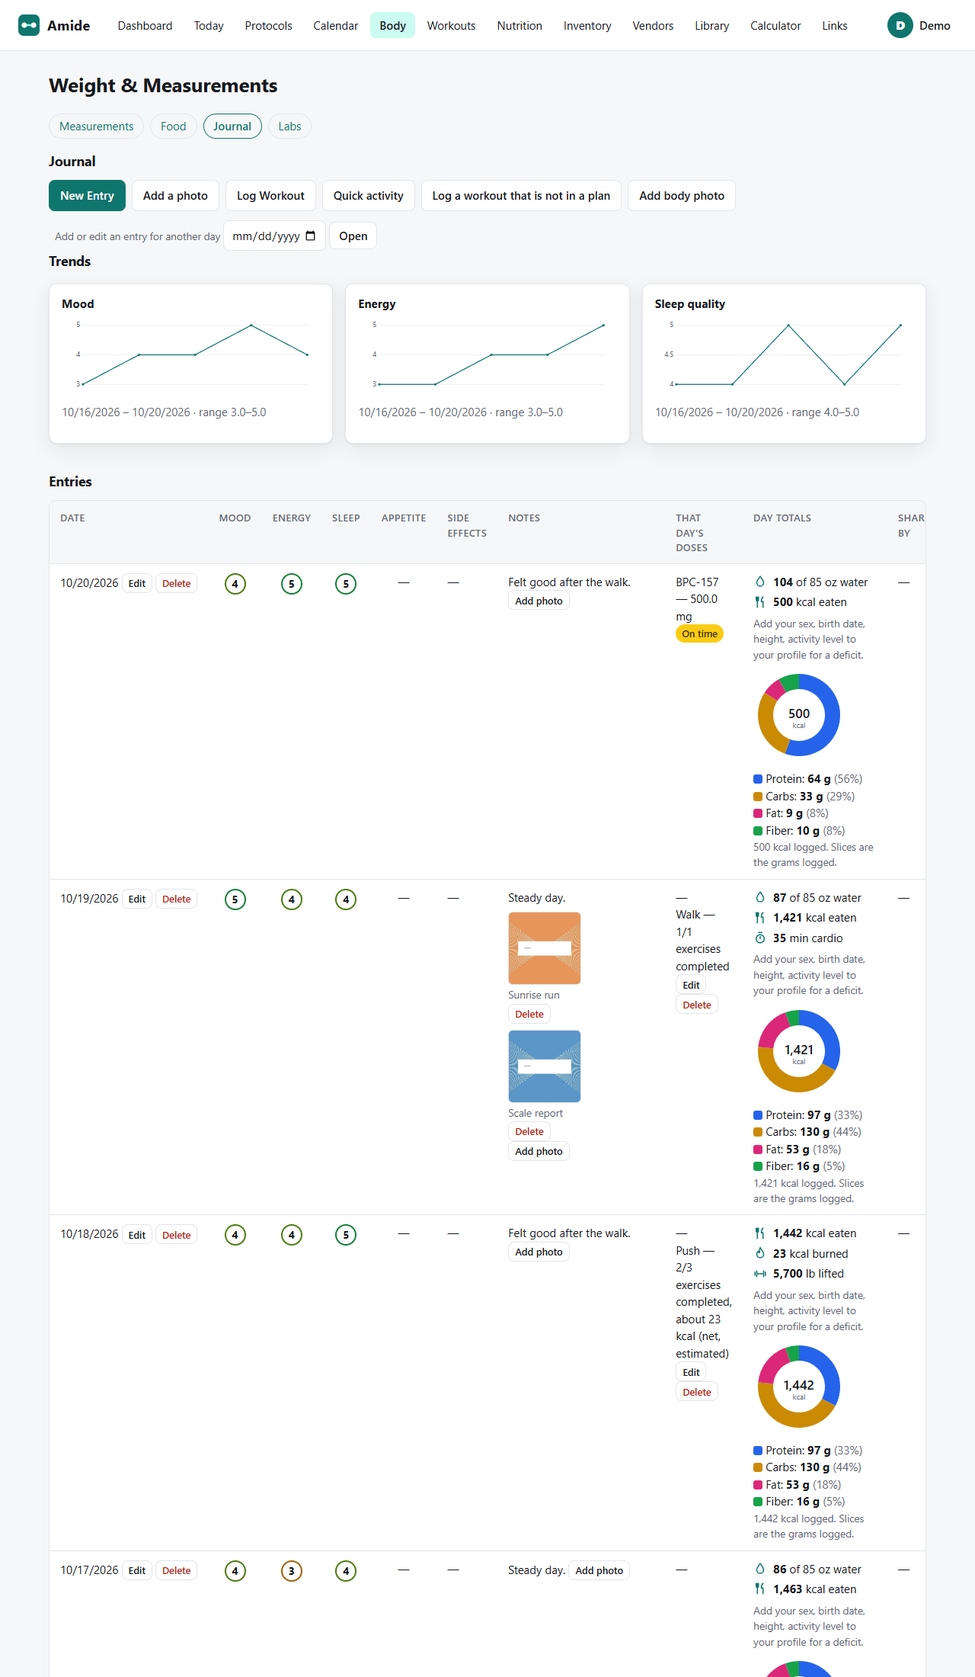
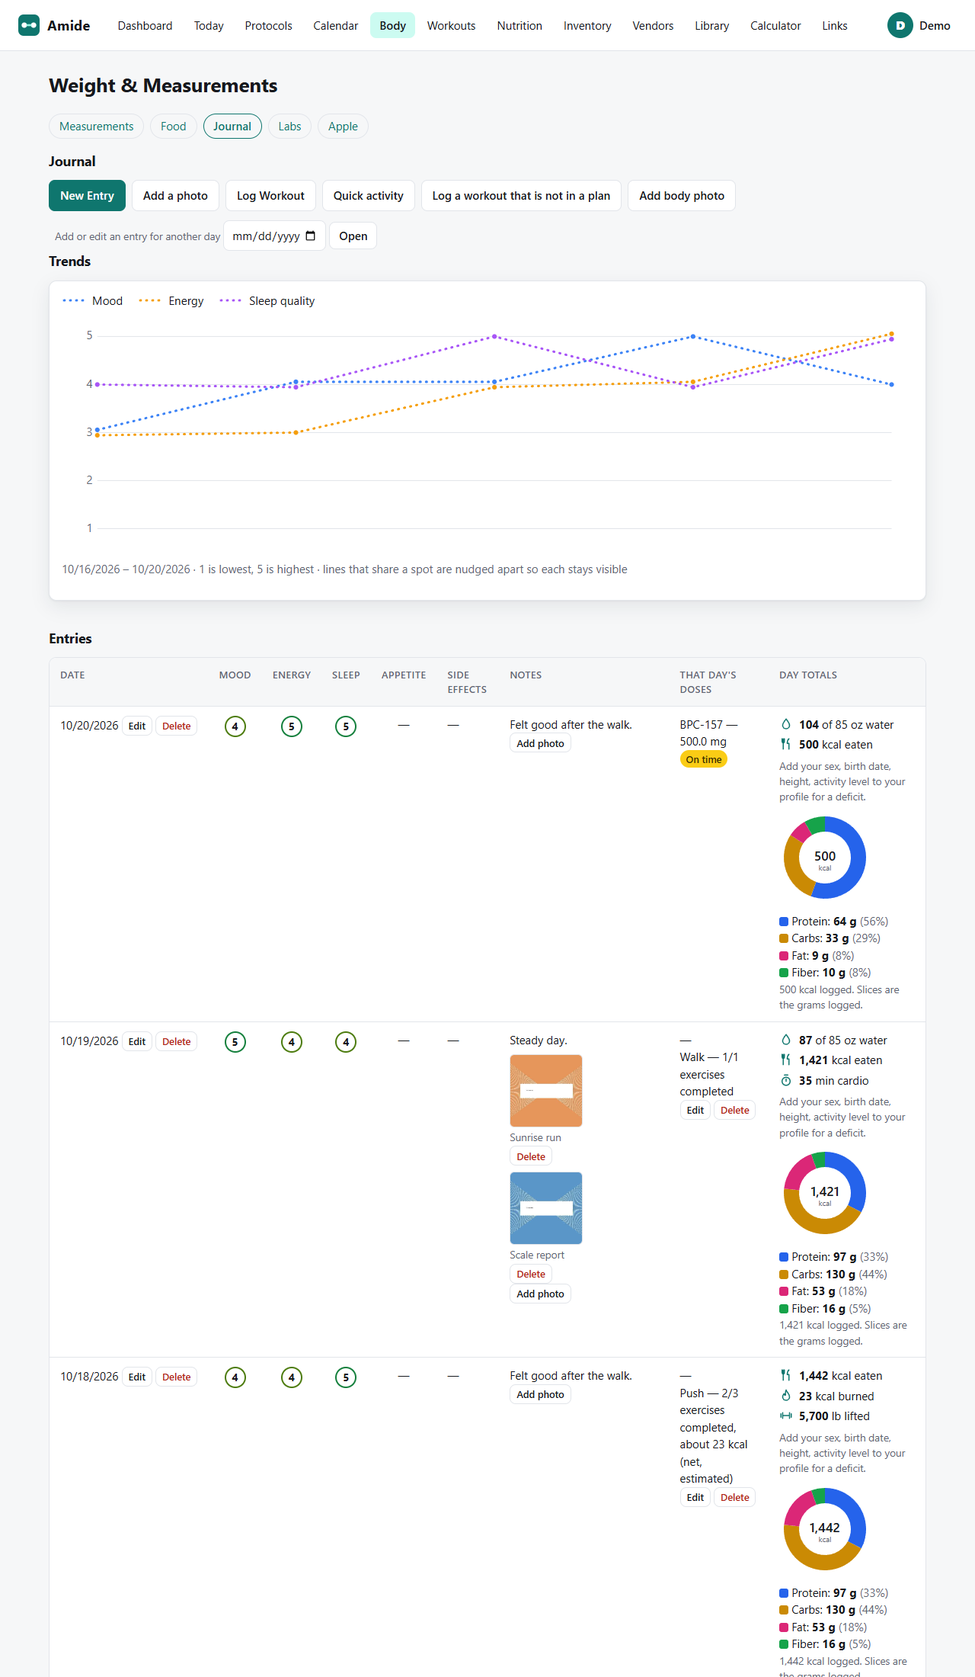
feat: the Journal's Trends are one full-width chart with a dotted line per rating
Mood, energy, sleep quality and appetite share one 1-5 chart, each in its own
colour with a legend; lines that land on the same spot are nudged apart so
none hides another. The Entries table drops its Shared by column unless
someone's entries are shared, so nothing runs off the edge.

diff --git a/app/templates/measurements/index.html b/app/templates/measurements/index.html
@@ -2,7 +2,7 @@
 {% set active_nav = "nutrition" if active_tab == "food" else "measurements" %}
 {% block title %}Weight & Measurements{% endblock %}
 
-{% from "measurements/_silhouette_macros.html" import line_chart, dual_chart, y_grid, silhouette_point %}
+{% from "measurements/_silhouette_macros.html" import line_chart, rating_chart, dual_chart, y_grid, silhouette_point %}
 {% from "measurements/_rings.html" import macro_ring %}
 
 {% macro err(field) %}{% if errors[field] %}<small class="error">{{ errors[field] }}</small>{% endif %}{% endmacro %}
@@ -572,12 +572,10 @@
   </form>
 </dialog>
 
-{% if journal_charts %}
+{% if journal_trend %}
 <section aria-labelledby="journal-trends-heading">
   <h2 id="journal-trends-heading" class="section-title">Trends</h2>
-  <div class="dashboard-placeholders">
-    {% for c in journal_charts %}{{ line_chart(c.chart, c.label) }}{% endfor %}
-  </div>
+  {{ rating_chart(journal_trend) }}
 </section>
 {% endif %}
 
@@ -602,7 +600,7 @@
           <th>Notes</th>
           <th>That day's doses</th>
           <th>Day totals</th>
-          <th>Shared by</th>
+          {% if journal_any_shared %}<th>Shared by</th>{% endif %}
         </tr>
       </thead>
       <tbody>
@@ -684,7 +682,7 @@
             {% if t.macro_ring %}{{ macro_ring(t.macro_ring, "Where the day's calories came from") }}{% endif %}
             {%- else -%}—{%- endif -%}
           </td>
-          <td data-label="Shared by">{{ e.owner_name or '—' }}</td>
+          {% if journal_any_shared %}<td data-label="Shared by">{{ e.owner_name or '—' }}</td>{% endif %}
         </tr>
         {% endfor %}
       </tbody>

diff --git a/app/templates/measurements/_silhouette_macros.html b/app/templates/measurements/_silhouette_macros.html
@@ -26,6 +26,25 @@
 {% endif %}
 {% endmacro %}
 
+{# The Journal's one trend chart: a dotted line per rating, each in its own colour, with a legend; each point carries its date and rating as hover text #}
+{% macro rating_chart(chart) %}
+{% if chart %}
+<div class="card rating-chart">
+  <ul class="chart-legend">
+    {% for s in chart.series %}<li><svg width="34" height="10" aria-hidden="true"><line x1="3" x2="31" y1="5" y2="5" stroke="{{ s.color }}" stroke-width="3" stroke-linecap="round" stroke-dasharray="{{ s.dash }}"></line></svg> {{ s.label }}</li>{% endfor %}
+  </ul>
+  <svg viewBox="0 0 {{ chart.width }} {{ chart.height }}" class="measurement-chart" role="img" aria-label="Mood, energy, sleep quality and appetite over time">
+    {{ y_grid(chart.y_axis) }}
+    {% for s in chart.series %}
+    <polyline points="{{ s.poly }}" fill="none" stroke="{{ s.color }}" stroke-width="3" stroke-linecap="round" stroke-linejoin="round" stroke-dasharray="{{ s.dash }}"></polyline>
+    {% for cx, cy in s.points %}{% set d, v = s.raw[loop.index0] %}<circle cx="{{ cx }}" cy="{{ cy }}" r="3" fill="{{ s.color }}" class="chart-point"><title>{{ s.label }}, {{ d | shortdate }}: {{ v|int }}</title></circle>{% endfor %}
+    {% endfor %}
+  </svg>
+  <p class="muted">{{ chart.min_d | shortdate }} – {{ chart.max_d | shortdate }} · 1 is lowest, 5 is highest · lines that share a spot are nudged apart so each stays visible</p>
+</div>
+{% endif %}
+{% endmacro %}
+
 {% macro dual_chart(chart, label, a_label, b_label) %}
 {% if chart %}
 <div class="card">

diff --git a/app/static/css/app.css b/app/static/css/app.css
@@ -576,6 +576,8 @@ section + section { margin-top: 36px; }
 .workout-day-today .workout-day-label { color: var(--text); font-weight: 600; }
 .measurement-chart { display: block; width: 100%; height: auto; color: var(--accent-fg, var(--accent)); }
 .measurement-chart .grid { stroke: var(--border); stroke-width: 1; }
+.chart-legend { display: flex; flex-wrap: wrap; gap: 6px 20px; list-style: none; margin: 0 0 10px; padding: 0; font-size: 0.95rem; }
+.chart-legend li { display: inline-flex; align-items: center; gap: 6px; }
 .measurement-chart .axis-label { fill: var(--muted); font-size: 15px; }
 /* What was lost (green) or gained (amber) since the weigh-in before, above each point; a flat week is muted. */
 .measurement-chart .chart-delta { font-size: 24px; font-weight: 700; paint-order: stroke; stroke: var(--surface); stroke-width: 5px; stroke-linejoin: round; }

diff --git a/tests/test_journal_trend_chart.py b/tests/test_journal_trend_chart.py
@@ -1,0 +1,87 @@
+"""The Journal's Trends: one full-width chart, a dotted line in its own colour for mood, energy, sleep quality and appetite, with lines that
+land on the same spot nudged apart so each stays visible."""
+
+import html
+from datetime import date, timedelta
+
+import pytest
+
+from app.models import JournalEntry
+from app.routers.journal import RATING_SERIES, rating_chart
+
+TODAY = date.today()
+
+
+@pytest.fixture(autouse=True)
+def clean(client, db, me):
+    yield
+    db.rollback()
+    db.query(JournalEntry).delete()
+    db.commit()
+
+
+def series(key, values, start=date(2026, 10, 1)):
+    return {"key": key, "points": [(start + timedelta(days=i), float(v)) for i, v in enumerate(values)]}
+
+
+def test_each_item_has_its_own_colour_and_label():
+    assert [s["key"] for s in RATING_SERIES] == ["mood", "energy", "sleep_quality", "appetite"]
+    assert len({s["color"] for s in RATING_SERIES}) == 4
+    assert [s["label"] for s in RATING_SERIES][-1].startswith("Appetite") and "lower is better" in RATING_SERIES[-1]["label"]
+
+
+def test_the_chart_is_wide_and_every_line_is_dotted_in_its_colour():
+    chart = rating_chart([series("mood", [3, 4, 5]), series("energy", [2, 2, 3])])
+    assert chart["width"] >= 1000
+    assert [s["key"] for s in chart["series"]] == ["mood", "energy"]
+    for s in chart["series"]:
+        assert s["color"] and s["dash"]                      # a dash pattern: the line is dotted
+        assert s["poly"].count(",") == 3                      # one pair of coordinates per day
+    assert [t["value"] for t in chart["y_axis"]["ticks"]] == ["5", "4", "3", "2", "1"]
+
+
+def test_two_lines_on_the_same_spot_are_nudged_apart_but_lines_alone_are_not():
+    chart = rating_chart([series("mood", [3, 5, 1]), series("energy", [3, 2, 1]), series("sleep_quality", [4, 4, 2])])
+    mood, energy, sleep = (s["points"] for s in chart["series"])
+    assert mood[0][1] != energy[0][1]                          # both rated 3 on day one: separated
+    assert mood[2][1] != energy[2][1]                          # both rated 1 on day three: separated
+    assert abs(mood[0][1] - energy[0][1]) < 15                  # but only by a little, still reading as a 3
+    other = rating_chart([series("sleep_quality", [4, 4, 2])])["series"][0]["points"]
+    assert sleep[1][1] == other[1][1]                           # a point nobody shares keeps its true height
+    mood_alone = rating_chart([series("mood", [3, 5, 1])])["series"][0]["points"]
+    assert mood_alone[1][1] == mood[1][1]                       # day two: mood 5 is alone, so it is not moved
+    assert mood_alone[0][1] != mood[0][1]                       # day one: it was moved because energy shares the spot
+
+
+def test_four_lines_on_one_spot_are_all_apart_and_stay_in_order():
+    chart = rating_chart([series(k, [3, 3]) for k in ("mood", "energy", "sleep_quality", "appetite")])
+    ys = [s["points"][0][1] for s in chart["series"]]
+    assert len(set(ys)) == 4 and ys == sorted(ys)
+
+
+def test_the_page_draws_one_chart_with_a_legend(client, db, me):
+    for n, (mood, energy, sleep) in enumerate([(2, 3, 4), (4, 3, 2), (5, 4, 3)]):
+        client.post("/journal/entries", data={"entry_date": (TODAY - timedelta(days=n + 1)).isoformat(), "mood": str(mood), "energy": str(energy), "sleep_quality": str(sleep), "appetite": "2"})
+    page = html.unescape(client.get("/measurements", params={"tab": "journal"}).text)
+    section = page.split('id="journal-trends-heading"')[1].split("</section>")[0]
+    assert section.count('class="card rating-chart"') == 1
+    assert section.count("<polyline") == 4                      # mood, energy, sleep quality and appetite
+    legend = section.split("chart-legend")[1].split("</ul>")[0]
+    for label in ("Mood", "Energy", "Sleep quality", "Appetite"):
+        assert label in legend
+    assert "stroke-dasharray" in section
+
+
+def test_a_day_with_one_rating_draws_no_line_for_it(client, db, me):
+    client.post("/journal/entries", data={"entry_date": (TODAY - timedelta(days=2)).isoformat(), "mood": "3"})
+    assert "journal-trends-heading" not in client.get("/measurements", params={"tab": "journal"}).text
+    client.post("/journal/entries", data={"entry_date": (TODAY - timedelta(days=1)).isoformat(), "mood": "4"})
+    section = html.unescape(client.get("/measurements", params={"tab": "journal"}).text).split('id="journal-trends-heading"')[1].split("</section>")[0]
+    legend = section.split("chart-legend")[1].split("</ul>")[0]
+    assert "Mood" in legend and "Energy" not in legend and "Sleep quality" not in legend and "Appetite" not in legend
+
+
+def test_the_shared_by_column_is_left_out_when_every_entry_is_your_own(client, db, me):
+    client.post("/journal/entries", data={"entry_date": (TODAY - timedelta(days=1)).isoformat(), "mood": "4"})
+    page = client.get("/measurements", params={"tab": "journal"}).text
+    assert "<th>Day totals</th>" in page and "Shared by" not in page.split('id="journal-entries-heading"')[1]

diff --git a/app/routers/journal.py b/app/routers/journal.py
@@ -19,6 +19,45 @@ router = APIRouter()
 
 RATING_FIELDS = ("mood", "energy", "sleep_quality", "appetite")
 
+# The Trends chart: one dotted line per rating, each in its own colour (chosen to read on both the light and the dark colourways).
+RATING_SERIES = (
+    {"key": "mood", "label": "Mood", "color": "#3b82f6"},
+    {"key": "energy", "label": "Energy", "color": "#f59e0b"},
+    {"key": "sleep_quality", "label": "Sleep quality", "color": "#a855f7"},
+    {"key": "appetite", "label": "Appetite (lower is better)", "color": "#ec4899"},
+)
+TREND_WIDTH, TREND_HEIGHT, TREND_PAD_X, TREND_PAD_Y = 1100, 300, 28, 26
+TREND_NUDGE = 7            # chart units between two lines that share a spot; the pair stays centred on the true height
+
+
+def rating_chart(series: list[dict]) -> dict | None:
+    """The geometry of the Journal's one trend chart. `series` is [{"key", "points": [(date, rating)]}] in RATING_SERIES order; every rating is 1 to 5, so
+    all lines share one fixed 1-5 axis and read against each other. Lines whose points land on the same day and rating are moved a little up or down
+    (centred on the true height) so none is hidden behind another; a point nobody shares stays exactly where it belongs."""
+    from app.routers.measurements import PAD_LEFT, _scaled_points          # deferred: measurements imports this module at load time
+    if not series:
+        return None
+    dates = [d for s in series for d, _ in s["points"]]
+    min_d, max_d = min(dates), max(dates)
+    info = {item["key"]: item for item in RATING_SERIES}
+    placed = {}                                          # (day, rating) -> the keys of the lines that have a point there
+    for s in series:
+        for d, v in s["points"]:
+            placed.setdefault((d, v), []).append(s["key"])
+    lines = []
+    for s in series:
+        points = sorted(s["points"])
+        coords = _scaled_points(points, min_d, max_d, 1.0, 5.0, TREND_WIDTH, TREND_HEIGHT, TREND_PAD_X, TREND_PAD_Y, PAD_LEFT)
+        shifted = []
+        for (d, v), (x, y) in zip(points, coords):
+            sharing = placed[(d, v)]
+            shifted.append((x, round(y + (sharing.index(s["key"]) - (len(sharing) - 1) / 2) * TREND_NUDGE, 1)))
+        lines.append({"key": s["key"], "label": info[s["key"]]["label"], "color": info[s["key"]]["color"], "dash": "1 7",
+                      "points": shifted, "raw": points, "poly": " ".join(f"{x},{y}" for x, y in shifted)})
+    ticks = [{"value": str(v), "y": round(TREND_HEIGHT - TREND_PAD_Y - (v - 1) / 4 * (TREND_HEIGHT - 2 * TREND_PAD_Y), 1)} for v in (5, 4, 3, 2, 1)]
+    return {"width": TREND_WIDTH, "height": TREND_HEIGHT, "series": lines, "min_d": min_d, "max_d": max_d,
+            "y_axis": {"ticks": ticks, "left": PAD_LEFT, "right": TREND_WIDTH - TREND_PAD_X}}
+
 
 def _journal_query(uid: int):
     """This user's journal entries (others' are never visible)."""
@@ -214,16 +253,16 @@ def journal_tab_context(session: Session, viewer_uid: int, form_date: date | Non
         if today_row is not None else None
     )
 
-    from app.routers.measurements import _chart          # deferred: measurements imports this module at load time
-    journal_charts = []
-    for label, field in (("Mood", "mood"), ("Energy", "energy"), ("Sleep quality", "sleep_quality"), ("Appetite", "appetite")):
-        points = [(e.entry_date, float(getattr(e, field))) for e in own_entries if getattr(e, field) is not None]
-        chart = _chart(points) if len(points) >= 2 else None                  # one day is not a trend
-        if chart is not None:
-            journal_charts.append({"label": label, "chart": chart})
+    plotted = []
+    for item in RATING_SERIES:
+        points = [(e.entry_date, float(getattr(e, item["key"]))) for e in own_entries if getattr(e, item["key"]) is not None]
+        if len(points) >= 2:                                                   # one day is not a trend
+            plotted.append({"key": item["key"], "points": points})
+    journal_trend = rating_chart(plotted) if plotted else None
 
     return {
-        "journal_charts": journal_charts,
+        "journal_trend": journal_trend,
+        "journal_any_shared": any(v.get("owner_name") for v in views),            # the "Shared by" column is only worth its width when someone's entries are in the list
         "journal_entries": views,
         "today_entry": today_entry,
         "journal_form_date": target,

diff --git a/tests/test_journal_backdate.py b/tests/test_journal_backdate.py
@@ -79,9 +79,10 @@ def test_mood_energy_and_sleep_get_trend_charts_once_there_are_two_days(client, 
         client.post("/journal/entries", data={"entry_date": (TODAY - timedelta(days=n + 1)).isoformat(), "mood": str(mood), "energy": str(energy), "sleep_quality": str(sleep)})
     page = html.unescape(client.get("/measurements", params={"tab": "journal"}).text)
     section = page.split('id="journal-trends-heading"')[1].split("</section>")[0]
+    legend = section.split("chart-legend")[1].split("</ul>")[0]
     for label in ("Mood", "Energy", "Sleep quality"):
-        assert f"<h3>{label}</h3>" in section
-    assert section.count("<polyline") == 3
+        assert label in legend
+    assert section.count("<polyline") == 3                  # one dotted line each, in a single chart
 
 
 def test_one_day_is_not_a_trend_and_a_metric_never_rated_has_no_chart(client, db, me):
@@ -89,4 +90,5 @@ def test_one_day_is_not_a_trend_and_a_metric_never_rated_has_no_chart(client, db
     assert "journal-trends-heading" not in client.get("/measurements", params={"tab": "journal"}).text
     client.post("/journal/entries", data={"entry_date": (PAST + timedelta(days=1)).isoformat(), "mood": "4"})
     section = html.unescape(client.get("/measurements", params={"tab": "journal"}).text).split('id="journal-trends-heading"')[1].split("</section>")[0]
-    assert "<h3>Mood</h3>" in section and "<h3>Energy</h3>" not in section and "<h3>Sleep quality</h3>" not in section
+    legend = section.split("chart-legend")[1].split("</ul>")[0]
+    assert "Mood" in legend and "Energy" not in legend and "Sleep quality" not in legend

diff --git a/tests/test_journal_appetite.py b/tests/test_journal_appetite.py
@@ -66,7 +66,7 @@ def test_the_table_shows_an_appetite_badge_and_the_trend_chart_appears(client, d
     assert 'num-icon n1" role="img" aria-label="Appetite 5 of 5"' in page      # lower appetite is better: 5 is red, 1 is green
     assert 'num-icon n5" role="img" aria-label="Appetite 1 of 5"' in page
     assert 'num-icon n3" role="img" aria-label="Appetite 3 of 5"' in page
-    assert '<h3>Appetite</h3>' in page
+    assert "Appetite (lower is better)" in page.split("chart-legend")[1].split("</ul>")[0]
 
 
 def test_migration_0063_adds_the_column_and_keeps_entries(tmp_path):

diff --git a/tests/test_journal.py b/tests/test_journal.py
@@ -153,6 +153,7 @@ def test_journal_tab_shows_entries_and_respects_personal_data_sharing(client, db
         t_after = _text(client.get("/measurements?tab=journal"))
         assert "partner's private note" in t_after
         assert "JournalSharePartner" in t_after
+        assert "Shared by" in t_after                      # the column is there once someone's entries are in the list
     finally:
         with SessionLocal() as s:
             s.query(Share).filter_by(owner_id=other_id, grantee_id=me,

diff --git a/CHANGELOG.md b/CHANGELOG.md
@@ -4,6 +4,7 @@ Newest first. Dates are when the work was done.
 
 ## v1.0.4 (2026-10)
 
+- **Journal Trends are one chart.** Mood, energy, sleep quality and appetite are drawn together in one full-width chart, each as a dotted line in its own colour on a fixed 1 to 5 scale, with a legend. Where two or more lines would land on the same day and rating they are nudged a little apart so none hides another. The Entries table's **Shared by** column, which ran off the edge, now appears only when someone's entries are shared with you.
 - **Apple Health: the right day, however often the phone sends.** The phone app can now run as often as you like (two or three times a day is plenty, the card says): every reading, workout, symptom and state of mind counts on the local day of where your phone was when it was recorded, so overlapping, repeated or late exports never double a day, and a day sent again from another time zone replaces the earlier one instead of being stored twice (with Hours grouping, a trip between zones whose hours do not line up, such as +05:30 and a whole-hour zone, can still store an overlapping re-send twice; Days grouping avoids it). Activity from two sources (the phone and a watch) is no longer added together; food and water from two apps still add up. An export that keeps failing on the server's side is given up on after 5 failed tries in a row (the phone is told it arrived; a resend by hand starts a fresh 5 tries), exports a crash left unread are picked up by the daily pass, and the storage limit can also free copies that will not be read again (a resend of such a copy keeps it again and reads it). The popup has **Cancel** and a close X, the card counts all the stored-only kinds (0 included), and **Revoke** asks first. Chart captions on the Apple tab show whole numbers without ".0".
 - **Apple Health (Health Auto Export).** Your iPhone's Apple Health data can now flow into Amide: **Settings, Integrations, Apple Health** makes a token and shows the address and header line for the phone app, with the exact settings in order and a live status. Amide receives the app's JSON at its own address, keeps every export as it arrived (90 days) and builds a clean per-metric history; a popup on the first data lets you choose what to show, and an **Apple** tab on Body charts it with today's and the week's figures, Apple workouts, symptoms and state of mind. ECG, heart rate notifications, cycle tracking and medications are stored only. Apple data stays apart from your own measurements. A read function returns the history as plain data. The receiver takes posts up to 64 MB (`AMIDE_HEALTH_MAX_MB`), keeps at most 2 GB of raw copies per person (`AMIDE_HEALTH_RAW_QUOTA_MB`; the oldest already-read copies go first), allows 10 live tokens per person, and asks the phone to resend when an import fails on the server's side. The guides have a new Apple Health section.
 - Journal: the **Appetite** badge colors are now reversed, since lower appetite is the better result: 1 is green and 5 is red (mood, energy and sleep stay higher-is-better). The color is worked out when the page is drawn, so every past entry changes too.

diff --git a/docs/USER_GUIDE.md b/docs/USER_GUIDE.md
@@ -49,7 +49,7 @@ A longer illustrated walkthrough, with screenshots of every page, is in [GUIDE.m
 
 ## Body and health
 
-- **Body**: weight and tape measurements (any of your own entries, journal days and water entries can be deleted; each asks first) (with a body diagram), water goal (from your latest weight; the Dashboard card keeps tracking without one and has Reset today, and the Nutrition tab lists your last 30 days of water entries), **Food** (diet type, calories and macros, a food log; paste a free USDA key in Settings, USDA food search, to add a live USDA food search and **Scan a barcode** (camera over https, or type the digits)), **Journal** (mood, energy, sleep, side effects including ones you add to your own list; add or edit any past day; trend charts), **Labs** (a line for every marker; results can be 0, negative, <5 or >100; any past date) and **Body photos** (blurred until you reveal them).
+- **Body**: weight and tape measurements (any of your own entries, journal days and water entries can be deleted; each asks first) (with a body diagram), water goal (from your latest weight; the Dashboard card keeps tracking without one and has Reset today, and the Nutrition tab lists your last 30 days of water entries), **Food** (diet type, calories and macros, a food log; paste a free USDA key in Settings, USDA food search, to add a live USDA food search and **Scan a barcode** (camera over https, or type the digits)), **Journal** (mood, energy, sleep, side effects including ones you add to your own list; add or edit any past day; one dotted-line Trends chart for all four ratings), **Labs** (a line for every marker; results can be 0, negative, <5 or >100; any past date) and **Body photos** (blurred until you reveal them).
 - **Weight chart labels**: each day's weight is labeled with what you lost (green) or gained (amber) since the day before, on the Dashboard and the Measurements tab. Several weigh-ins on one day count once.
 - **Scale readings**: type in the numbers a body-composition scale reports (Log a measurement), or **Import from a scale (Renpho CSV)** to load a whole export; importing a file twice is safe. Each number can be charted in the Overview Metric list and the latest reading is shown with its change.
 - **Water against your goal** (Food tab): the last 14 days, each with that day's goal, its share and whether it was compliant. **90% or more** of the day's goal counts as compliant; today is not counted until it ends. The Dashboard's Water Goal fill is blue below half, yellow from half and green from 90%.

diff --git a/docs/GUIDE.md b/docs/GUIDE.md
@@ -256,7 +256,7 @@ Many smart scales report more than weight. **Log a measurement** has an optional
 
 ### Journal
 
-Daily mood, energy and sleep, side effects (including ones you add to your own list) and notes. Add or edit any past day. Trend charts show the pattern.
+Daily mood, energy and sleep, side effects (including ones you add to your own list) and notes. Add or edit any past day. One **Trends** chart draws mood, energy, sleep quality and appetite together, each as a dotted line in its own colour on a 1 to 5 scale; where lines would sit on the same spot they are nudged apart so each stays visible. (Appetite is the one where lower is better.) The entries table shows a **Shared by** column only when someone has shared their journal with you.
 
 You can keep **photos** with a day (something that caught your attention, a motivating picture, a scale report): use **Add a photo** at the top of the tab or **Add photo** on a day's row. Pick the day, one or several photos and an optional caption. They are private to you, stripped of location and camera data, and included in your backups.
 
